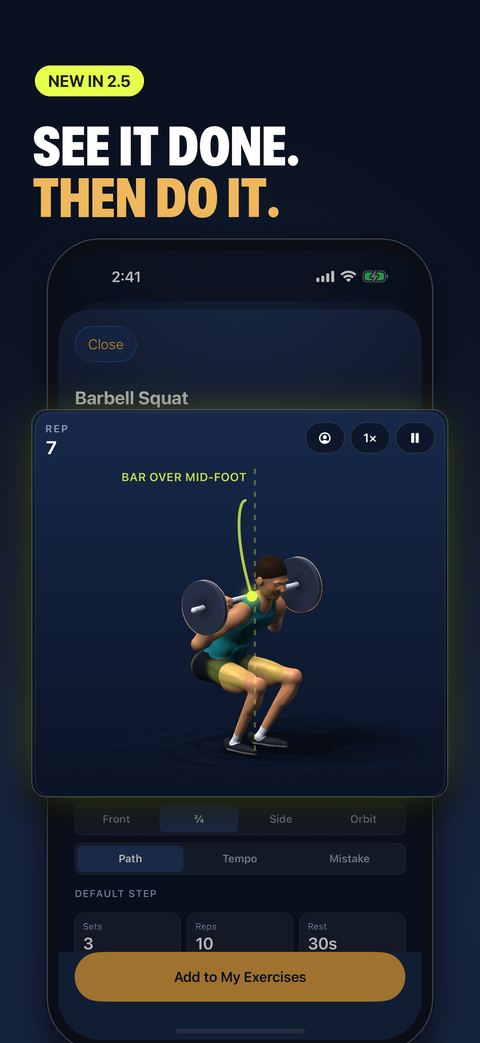
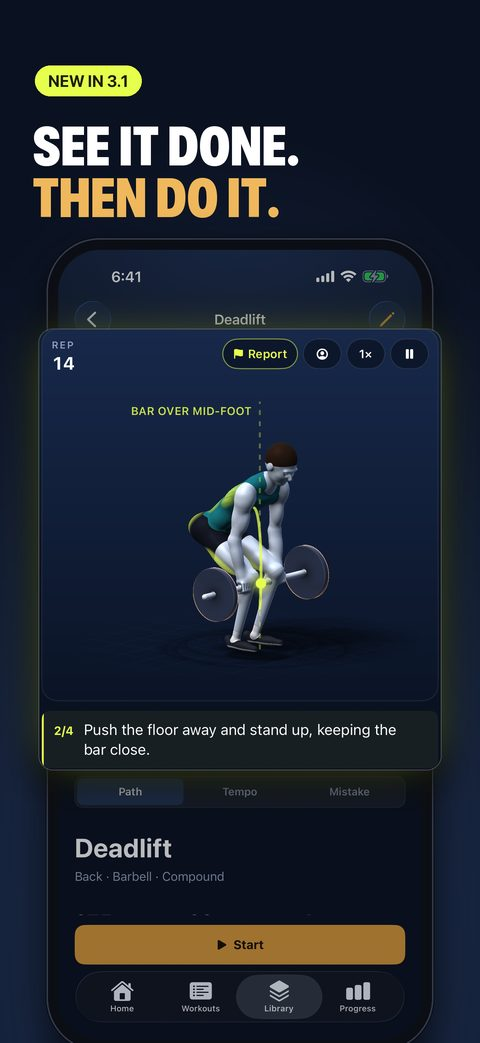
Landing page and support FAQ for 3.1: Train, Fuel and Mind

diff --git a/index.html b/index.html
@@ -4,11 +4,11 @@
 <meta charset="UTF-8">
 <meta name="viewport" content="width=device-width, initial-scale=1.0">
 <title>MFBP — Move Fast, Be Patient</title>
-<meta name="description" content="Consistency over intensity. MFBP brings your training, fuel and progress together in one iPhone and Apple Watch app. No fad diets, no crash workouts.">
+<meta name="description" content="Lasting health is all three: how you train, how you fuel and how you feel. MFBP brings Train, Fuel and Mind together in one iPhone and Apple Watch app. No fad diets, no crash workouts.">
 <meta name="apple-itunes-app" content="app-id=6806676902">
 <meta property="og:title" content="MFBP — Move Fast, Be Patient">
-<meta property="og:description" content="Consistency over intensity. Training, fuel and progress in one place.">
-<meta property="og:image" content="https://mfbp.io/img/consistency.jpg">
+<meta property="og:description" content="Lasting health is all three. Train, Fuel and Mind, together in one place.">
+<meta property="og:image" content="https://mfbp.io/img/whole-health.jpg">
 <link rel="icon" href="/img/icon.png">
 <link rel="apple-touch-icon" href="/img/icon.png">
 <style>
@@ -21,6 +21,8 @@
     --gold: #D4A94F;
     --gold-bright: #F0B85C;
     --lime: #C4E15A;
+    --fuel: #4FD1A5;
+    --mind: #F2A6C8;
   }
   * { box-sizing: border-box; }
   html { -webkit-text-size-adjust: 100%; }
@@ -70,6 +72,25 @@
   .card h3 { margin: 0 0 6px; color: var(--gold); font-size: 1.05rem; }
   .card p { margin: 0; color: #D7DAE3; font-size: .98rem; }
 
+  .pillars .card { border-top: 4px solid var(--gold-bright); }
+  .pillars .card.fuel { border-top-color: var(--fuel); }
+  .pillars .card.fuel h3 { color: var(--fuel); }
+  .pillars .card.mind { border-top-color: var(--mind); }
+  .pillars .card.mind h3 { color: var(--mind); }
+  .pillars .card h3 { font-size: 1.25rem; text-transform: uppercase; letter-spacing: .04em; }
+  .pillars .card ul { margin: 10px 0 0; padding-left: 1.1em; color: #D7DAE3; font-size: .96rem; }
+  .pillars .card li { margin: 4px 0; }
+
+  .mind-section h2 .tag {
+    display: inline-block; vertical-align: middle; margin-left: 8px; padding: 3px 10px; border-radius: 999px;
+    background: var(--mind); color: #2A1220; font-size: .72rem; font-weight: 800; letter-spacing: .06em; text-transform: uppercase;
+  }
+  .mind-section .card h3 { color: var(--mind); }
+  .note {
+    max-width: 44em; margin: 24px auto 0; padding: 14px 18px; border-radius: 12px;
+    border: 1px solid var(--border); color: var(--text-dim); font-size: .92rem; text-align: center;
+  }
+
   .nots { display: flex; flex-wrap: wrap; justify-content: center; gap: 10px; margin-top: 8px; }
   .nots span {
     border: 1px solid var(--border); border-radius: 999px; padding: 8px 16px; color: var(--text-dim); font-size: .95rem;
@@ -92,39 +113,96 @@
   <header class="hero">
     <img class="icon" src="/img/icon.png" alt="MFBP app icon">
     <div><span class="eyebrow">Move Fast · Be Patient</span></div>
-    <h1>Consistency <span>over intensity.</span></h1>
-    <p class="lede">Lasting health isn't built on intensity. It's built on showing up: training, fuel and the mindset to keep going. MFBP isn't another exercise tracker. It's a personal companion for the long run, on your terms, with a clear view of your goals and your progress.</p>
+    <h1>Lasting health <span>is all three.</span></h1>
+    <p class="lede">It isn't one thing. It's how you train, how you fuel and how you feel, working together day after day. MFBP brings all three into one calm routine: Train, Fuel and Mind side by side, built around your goals and the targets you set.</p>
     <a class="cta" href="https://apps.apple.com/app/id6806676902">Get MFBP on the App Store</a>
     <div class="fine">For iPhone and Apple Watch. Free to use, with an optional Pro subscription.</div>
   </header>
 
   <div class="shots" aria-label="App screenshots">
-    <img src="/img/consistency.jpg" alt="Home screen with today's fuel and a workout on Apple Watch" loading="lazy">
-    <img src="/img/demos.jpg" alt="Animated 3D demonstration of a barbell squat" loading="lazy">
-    <img src="/img/cardio.jpg" alt="A run in progress with GPS distance and pace" loading="lazy">
+    <img src="/img/whole-health.jpg" alt="Today with Train, Fuel and Mind rings, and the same rings on Apple Watch" loading="lazy">
+    <img src="/img/mind.jpg" alt="Mind check-in with mood and tags, and habits against your targets" loading="lazy">
+    <img src="/img/breathe.jpg" alt="A guided box breathing session" loading="lazy">
+    <img src="/img/sleep.jpg" alt="Last night's sleep against your target" loading="lazy">
+    <img src="/img/demos.jpg" alt="Animated 3D demonstration of a deadlift" loading="lazy">
+    <img src="/img/workouts.jpg" alt="Workouts, each drawn as the shape of its sets" loading="lazy">
     <img src="/img/fuel.jpg" alt="Fuel screen with calories, protein and energy burned" loading="lazy">
-    <img src="/img/progress.jpg" alt="Progress screen with volume and a strength curve" loading="lazy">
+    <img src="/img/connected.jpg" alt="Check-ins next to training days in Progress" loading="lazy">
   </div>
 
   <section>
-    <h2>A mindset, not a program</h2>
-    <p class="sub">Train, fuel and recover in one place, the way you already work.</p>
+    <h2>Three parts of lasting health</h2>
+    <p class="sub">Progress in one supports the others. MFBP keeps them in one place, on your terms.</p>
+    <div class="grid pillars">
+      <div class="card">
+        <h3>Train</h3>
+        <p>Build any routine your way, or start from a library of hundreds of exercises.</p>
+        <ul>
+          <li>Animated 3D demos for over 500 exercises</li>
+          <li>Runs, walks and rides with GPS and pace</li>
+          <li>Recovery days that count, because rest is part of training</li>
+        </ul>
+      </div>
+      <div class="card fuel">
+        <h3>Fuel</h3>
+        <p>Today's calories and protein from Apple Health, next to how you train.</p>
+        <ul>
+          <li>Goals from your body weight</li>
+          <li>Works with any food app that shares with Health</li>
+          <li>No meal plans, no fad diets</li>
+        </ul>
+      </div>
+      <div class="card mind">
+        <h3>Mind</h3>
+        <p>How you feel, how you sleep and the habits you choose, at your own pace.</p>
+        <ul>
+          <li>One-tap check-ins</li>
+          <li>Sleep, breathing and mindful minutes</li>
+          <li>Habits with targets you set</li>
+        </ul>
+      </div>
+    </div>
+  </section>
+
+  <section class="mind-section">
+    <h2>Meet Mind <span class="tag">New</span></h2>
+    <p class="sub">A calmer way to look after the part of health a workout log misses. All of Mind is free.</p>
     <div class="grid">
       <div class="card">
-        <h3>Train your way</h3>
-        <p>Build every exercise and routine yourself, or start from a library of hundreds. Over 500 exercises show an animated 3D demo, with coaching for bar path, tempo and breathing.</p>
+        <h3>Check in</h3>
+        <p>Tap how you're feeling and, if you like, what shaped your day. Over time, see your check-ins next to your training (Pro).</p>
       </div>
       <div class="card">
-        <h3>Move at your pace</h3>
-        <p>Start a run, walk or ride in one tap. The clock counts up, with GPS distance, pace and a map of your route. Track heart rate and calories on Apple Watch.</p>
+        <h3>Habits you set</h3>
+        <p>Alcohol-free days, a screens-off wind-down, sleep and mindful minutes, each against a target you choose. Habits count by the week, so a missed day never breaks your week.</p>
       </div>
       <div class="card">
-        <h3>Fuel the long game</h3>
-        <p>See today's calories and protein from Apple Health next to your training, with goals from your body weight. No meal plans, no fad diets.</p>
+        <h3>Rest is part of the plan</h3>
+        <p>Last night's sleep from Apple Health, or log it yourself if you don't wear a tracker. After a run of training days, Today suggests a rest day, and a rest day you plan keeps your streak going.</p>
+      </div>
+      <div class="card">
+        <h3>Breathe and learn</h3>
+        <p>Guided box breathing, the physiological sigh and 4-7-8, saved to Apple Health as mindful minutes. Short guides on stress, sleep, light and screens, rest and alcohol, each with its sources.</p>
+      </div>
+    </div>
+    <p class="note">Everything you log in Mind stays on your iPhone and is never synced to iCloud. MFBP offers general wellness guidance and isn't a substitute for professional medical or mental health care. Support &amp; Resources is always one tap away in the app.</p>
+  </section>
+
+  <section>
+    <h2>One view of your day</h2>
+    <p class="sub">Your three rings and your streak, with one suggestion for what's next.</p>
+    <div class="grid">
+      <div class="card">
+        <h3>Today at a glance</h3>
+        <p>Train, Fuel and Mind rings beside your streak, and an Up Next pick that weighs your week. Turn rings and cards on or off and put them in the order you like.</p>
+      </div>
+      <div class="card">
+        <h3>On your wrist</h3>
+        <p>Track workouts on Apple Watch with live heart rate and calories, and see your three rings between workouts and right on your watch face (Pro).</p>
       </div>
       <div class="card">
         <h3>See it add up</h3>
-        <p>Streaks, a year view of every day you showed up, strength curves and personal records. Every set and rep is logged as you go.</p>
+        <p>A streak calendar and a year view of every day you showed up, strength curves and personal records. Every set and rep is logged as you go.</p>
       </div>
     </div>
   </section>
@@ -134,9 +212,10 @@
     <div class="nots">
       <span><b>No</b> fad diets</span>
       <span><b>No</b> crash workouts</span>
+      <span><b>No</b> guilt over a missed day</span>
       <span><b>No</b> accounts</span>
       <span><b>No</b> ads or tracking</span>
-      <span><b>No</b> one else's idea of how you should train</span>
+      <span><b>No</b> one else's idea of how you should live</span>
     </div>
   </section>
 

diff --git a/support/index.html b/support/index.html
@@ -75,10 +75,13 @@
   <ul>
     <li><strong>How do I build a routine within a routine?</strong> From the Workouts tab, create a new workout and add existing workouts as steps alongside individual exercises, to chain multiple sessions (warm-up, main set, finisher) into one.</li>
     <li><strong>Does MFBP sync across my devices?</strong> Yes — enable iCloud Sync in Settings to keep your exercises, workouts, and history up to date across every device signed into the same iCloud account.</li>
-    <li><strong>How does MFBP work with Apple Health?</strong> Each part is optional and asks for permission first. With Sync to Apple Health on, MFBP saves completed workouts to Health, including distance and, for outdoor runs, walks and rides, the route. With Fuel on, it reads your calories, macros, energy burned and body weight to show them next to your training. If you track a workout on Apple Watch (Pro), it reads your heart rate, calories and distance during the workout. See the <a href="/privacy">Privacy Policy</a> for the details.</li>
+    <li><strong>How does MFBP work with Apple Health?</strong> Each part is optional and asks for permission first. With Sync to Apple Health on, MFBP saves completed workouts to Health, including distance and, for outdoor runs, walks and rides, the route. With Fuel on, it reads your calories, macros, energy burned and body weight to show them next to your training. If you track a workout on Apple Watch (Pro), it reads your heart rate, calories and distance during the workout. In Mind, it reads your sleep and mindful minutes, saves breathing sessions as mindful minutes and, only if you turn it on, saves nights you log by hand as sleep. See the <a href="/privacy">Privacy Policy</a> for the details.</li>
     <li><strong>How do I start a run, walk or ride?</strong> Tap Cardio next to Start Empty Workout, pick the activity and Outdoor or Indoor, and add a goal if you like. The clock counts up until you hold Finish. Outdoors, MFBP uses GPS for distance, pace and a map of your route. Indoors, runs and walks use your iPhone's step counter, which needs Motion &amp; Fitness access.</li>
     <li><strong>Why is my distance missing or "Finding GPS…"?</strong> Outdoor sessions need location access for MFBP (Settings &gt; Privacy &amp; Security &gt; Location Services). Until the GPS gets a fix, distance comes from the step counter. Rows and swims get distance only from Apple Watch, and indoor rides don't track distance.</li>
-    <li><strong>Where are the animated exercise demos?</strong> Over 500 library exercises show one on their detail screen. Look for the Animated badge, or use the Animated filter in the Library. You can turn the figure, slow it down, and switch on coaching layers (bar path, tempo and the most common mistake). Change how the figure looks in Settings &gt; Exercise Demos &gt; Avatar.</li>
+    <li><strong>Where are the animated exercise demos?</strong> Over 500 library exercises open on one. In the Library, tap Animated demos under More ways in, or look for the Demo mark next to an exercise. You can turn the figure, slow it down, and switch on coaching layers (bar path, tempo and the most common mistake). Change how the figure looks in Settings &gt; Exercise Demos &gt; Avatar.</li>
+    <li><strong>What is Mind?</strong> Mind sits beside Train and Fuel. Check in with how you feel in one tap, track habits you choose (alcohol-free days, a screens-off wind-down, sleep and mindful minutes) against targets you set, take a guided breather, and read short guides with their sources. Set it up from the Mind ring on Today, and change your targets any time in Mind Goals. All of Mind is free. MFBP offers general wellness guidance and isn't a substitute for professional medical or mental health care. If you're struggling, Support &amp; Resources in Mind lists people you can talk to, including 988 in the US.</li>
+    <li><strong>Where is my Mind data kept?</strong> Check-ins, habit days and sleep you log stay on your iPhone only. They're never synced to iCloud, even with iCloud Sync on, and aren't sent anywhere.</li>
+    <li><strong>I don't wear a sleep tracker. Can I still track sleep?</strong> Yes. Log a night in Mind with a bedtime and wake time, or just the hours. If Apple Health has nothing for last night, Today asks in the morning. To choose where sleep comes from and what happens when both have a night, open Mind Goals › Sleep › Source and logging.</li>
     <li><strong>Is my data shared with anyone?</strong> No. MFBP has no accounts, no ads, and no analytics. Your data stays on your device and, if you enable iCloud Sync, in your own private iCloud account. See our <a href="/privacy">Privacy Policy</a> for details.</li>
     <li><strong>I found a bug or have a feature request.</strong> Email <a href="mailto:support@mfbp.io">support@mfbp.io</a> with as much detail as you can (what you were doing, your device model, and iOS version) and we'll take a look.</li>
   </ul>
